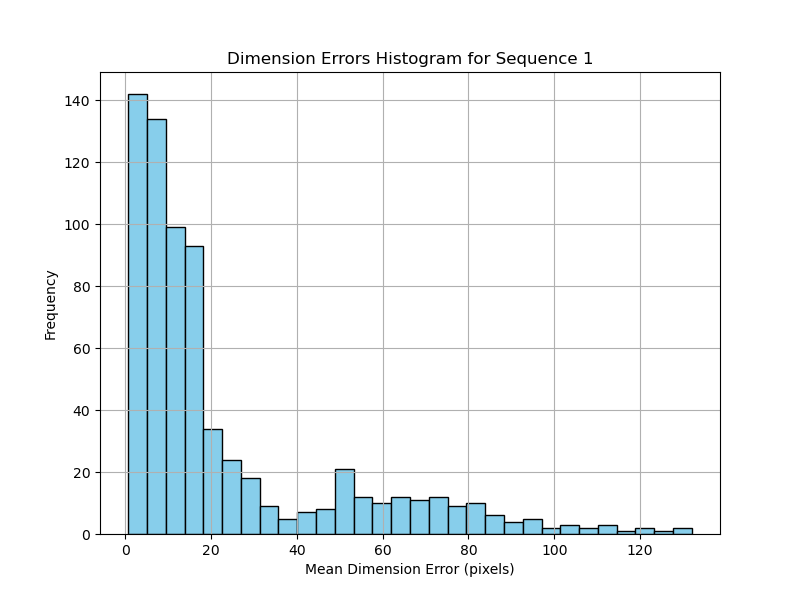
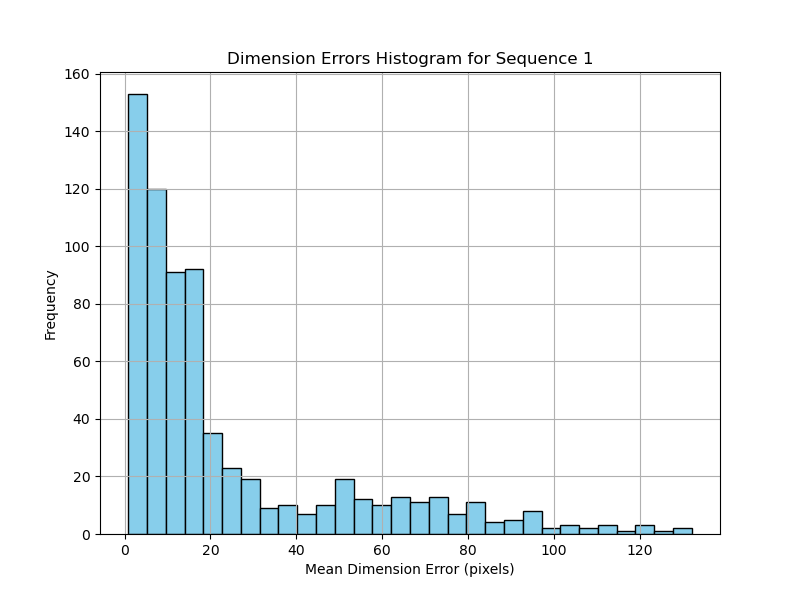
damn

diff --git a/main.py b/main.py
@@ -125,8 +125,6 @@ def run(config_path: str) -> None:
 
     # Iterate over each sequence
     for seq_id, frames in data.items():
-        if seq_id == "1":
-            continue
         logger.info(f"Processing sequence {seq_id} with {len(frames)} frames.")
         evaluator.reset()
         tracker_pedastrians.reset()
